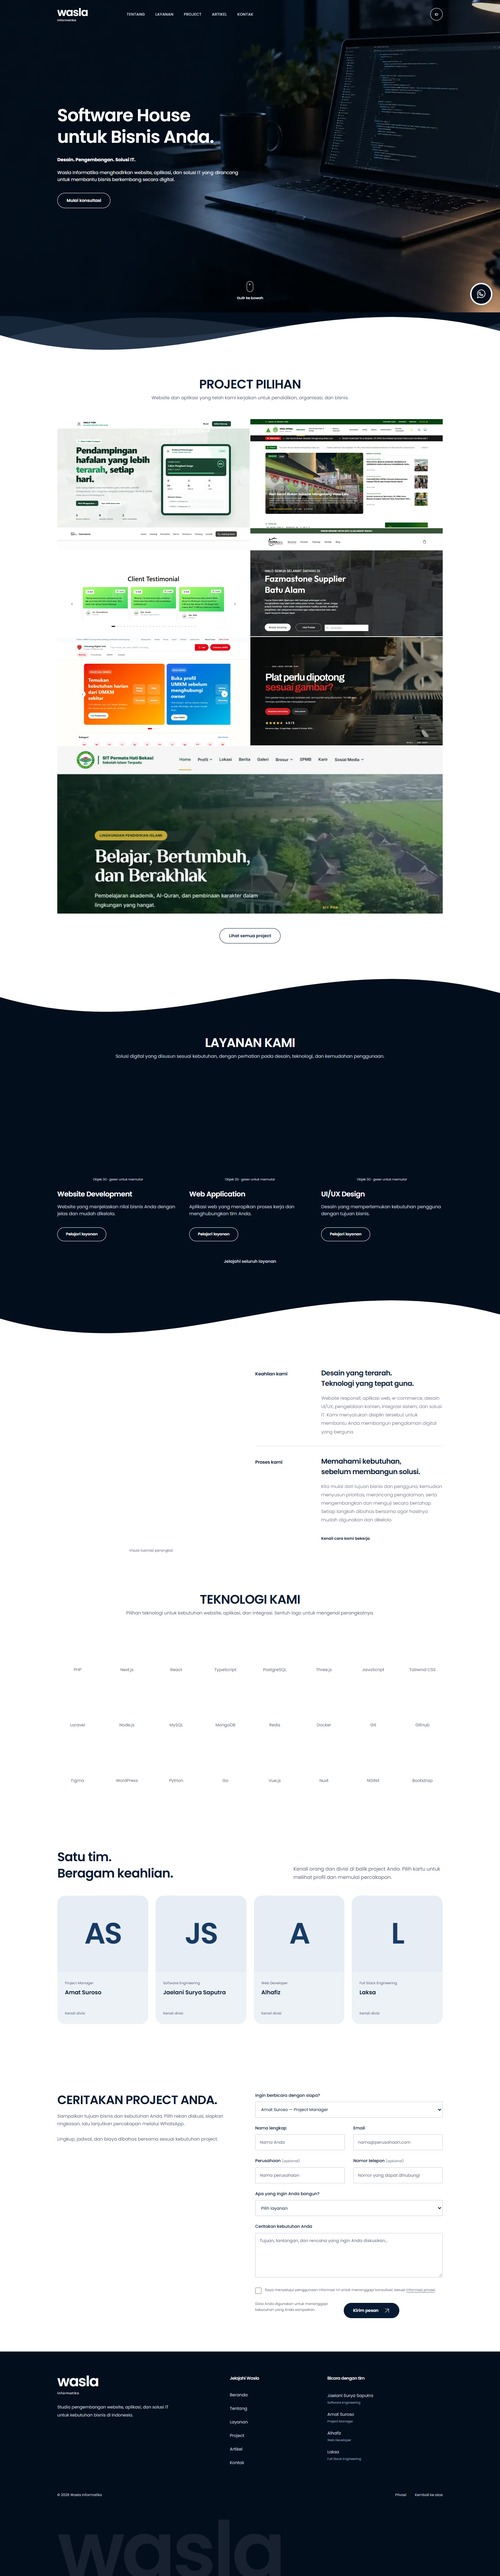
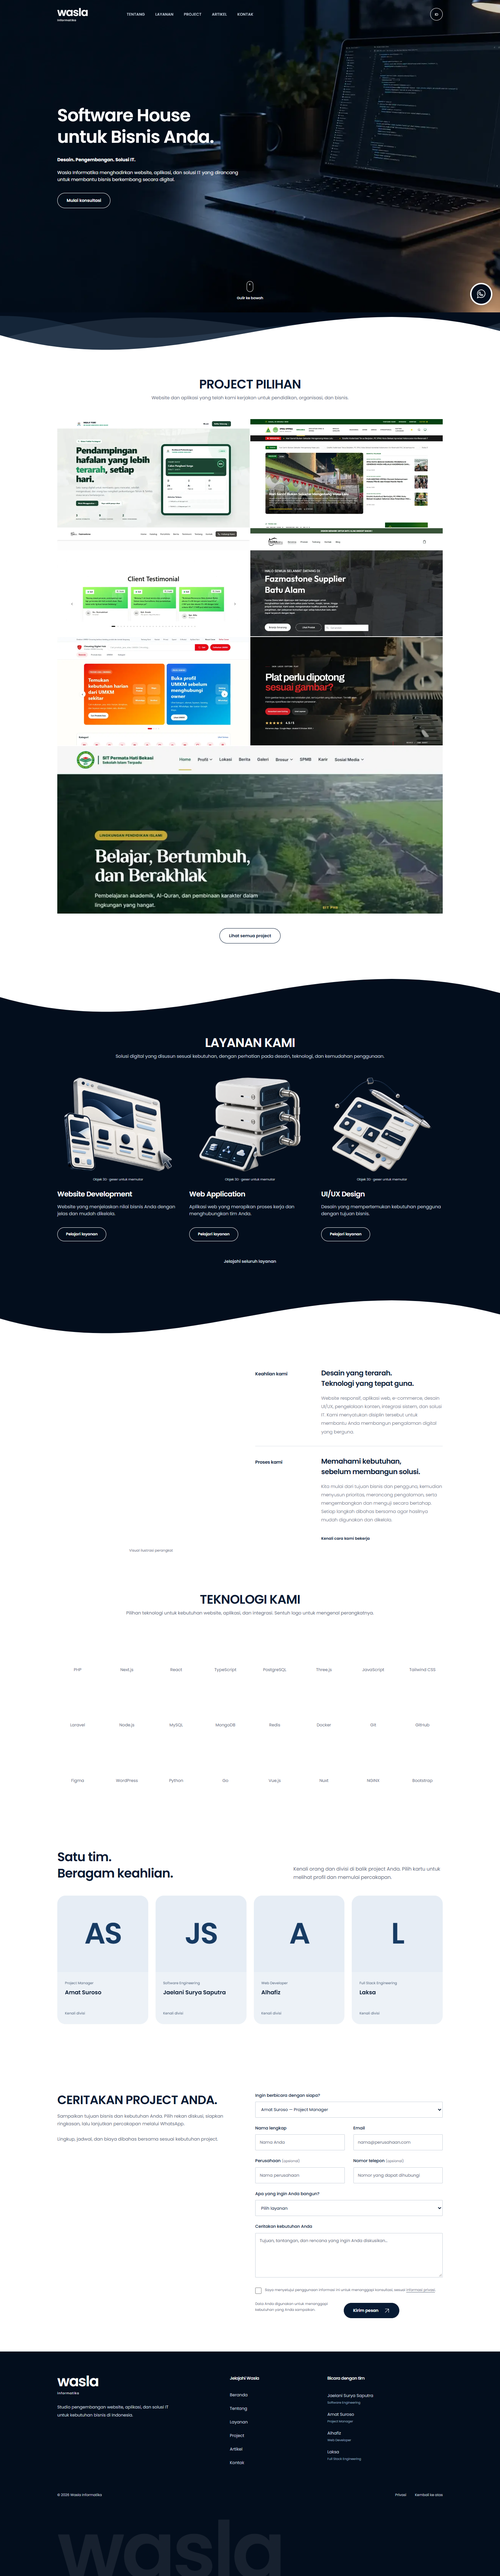
Add verification JSON files and studio documentation validation
- Created domain production verification JSON file for wasla.my.id with deployment details and DNS configuration.
- Added legacy media verification JSON file for wasla.my.id, including status checks for image files.
- Introduced studio documentation validation markdown file summarizing the documentation process and validation results for key files.

Changed region(s): [[0.125, 0.4051, 0.3438, 0.4674], [0.6562, 0.4051, 0.8438, 0.4674], [0.4062, 0.4051, 0.5938, 0.4674]]

diff --git a/docs/production-verification.md b/docs/production-verification.md
@@ -1,8 +1,51 @@
+# Verifikasi produksi Wasla Studio ? 23 Oktober 2026
+
+Website aktif: **https://wasla.my.id**. CMS: **https://wasla.my.id/admin**. Akun administrator lama tetap dapat digunakan.
+
+## Rilis aktif
+
+Deployment `dpl_7pH59fqvSkobj1h4sN7kTJssrZwT`, target production/READY, build 54 detik, telah dipromosikan ke domain publik. Canonical diperiksa sebelum promosi; pengujian lengkap di bawah dijalankan kembali pada domain baru tanpa bypass autentikasi Vercel.
+
+- CMS Wasla Studio menggantikan Payload: dashboard, konten, unggah galeri, pengaturan, pengguna, pesan konsultasi, revisi serta draft/publish.
+- Scheduler privat menyediakan kalender, agenda, penanggung jawab, rentang tanggal dan status. Tidak ada pengingat otomatis yang diklaim.
+- Objek layanan memakai mesh Three.js interaktif, bukan hanya perspektif gambar. Kartu divisi dapat dibalik dengan mouse/keyboard; foto dapat diunggah melalui CMS dan placeholder memakai inisial jujur.
+- Header tanpa ornamen kanan, link project tanpa panah/garis dekoratif, CTA putih, footer navy lurus tanpa sambungan putih, serta layout mobile yang diperbaiki.
+- Database lama tidak dihapus. Migrasi mempertahankan ID, akun, tujuh project nyata, galeri dan media. Pemeriksaan cutover tidak menemukan record lama yang lebih baru sebelum promosi.
+
+## Verifikasi domain dan runtime
+
+| Pemeriksaan | Hasil |
+| --- | --- |
+| DNS dan kepemilikan | Dua nameserver Vercel terbaca dari Cloudflare/Google; Vercel `configured-correctly` |
+| HTTPS | HTTP 200 dengan validasi sertifikat normal |
+| Metadata | Canonical, sitemap dan robots memakai https://wasla.my.id |
+| Halaman publik | Tujuh rute utama HTTP 200 tanpa overflow teramati |
+| Project | Tujuh project nyata terbit, setiap galeri minimal tiga gambar tambahan |
+| Privasi | Jadwal dan pesan konsultasi menolak akses anonim |
+| Akun | Administrator produksi berhasil login ke Studio dengan kredensial lama |
+| Media | Upload, Blob HEAD dan download WebP berhasil |
+| Scheduler | Create dan perubahan status tersimpan di produksi |
+| Dashboard | Ringkasan dan kalender tampil setelah autentikasi |
+| Konsultasi | Form menyimpan pesan privat lalu menyediakan link WhatsApp Amat Suroso yang benar; tidak mengirim pesan eksternal otomatis |
+| Responsif | Homepage/admin lebar 1440 dan 390 tanpa overflow atau page error teramati |
+
+Fixture upload, jadwal dan pesan verifikasi dihapus menggunakan ID persis. Bukti mesin: `.impeccable/review/studio-production-verification.json`, `domain-production-verification.json`, `studio-validation.json` dan `studio-legacy-media-verification.json`. Bukti media lama mencakup dua file representatif, bukan klaim mendekode semua 43 media.
+
+Build, typecheck, empat tes unit dan sembilan tes browser lokal lulus. Lint: nol error, delapan warning yang dicatat. Capture lokal mencakup 24 kombinasi admin dan 36 publik; coverage emulasi tidak mengklaim seluruh perangkat fisik. Review independen [Studio](visual-review-studio.md) memberikan ship. Audit dependensi produksi saat pemeriksaan: nol kerentanan dilaporkan.
+
+Source dirilis dari checkout lokal melalui CLI, tanpa klaim push GitHub. Kredensial tidak ditulis pada laporan publik. Panduan: [CMS](wasla-studio.md), [deployment](deployment.md), [domain](domain-wasla-my-id.md).
+
+---
+
+## Arsip sebelum Wasla Studio
+
+Seluruh bagian berikut adalah riwayat rilis sebelumnya. Pernyataan Payload, ornamen header, raster perspective dan URL vercel.app di arsip tidak menjelaskan rilis aktif.
+
 # Verifikasi produksi — 23 Oktober 2026
 
 Situs publik: **https://waslainformatika.vercel.app**. CMS: **https://waslainformatika.vercel.app/admin**.
 
-## Rilis refinement terbaru
+## Riwayat rilis refinement Payload
 
 Deployment `dpl_2KvdJMGDipWxCqczTtHVoSyzsHio` dibangun dalam 56 detik, target production/READY, diuji pada URL pentahapan dan dipromosikan ke domain publik. Pembaruan: lambang navy dan favicon bulat, mockup navy, footer dekoratif opacity 0.14, perspektif objek layanan mengikuti pointer/scroll dengan fallback statis pada touch/reduced motion, 24 teknologi dengan warna saat hover/fokus, struktur divisi, latar konsultasi putih, proses selebar layar, serta 21 screenshot galeri nyata dari REA.
 
@@ -12,7 +55,7 @@ Delapan tes browser, empat tes unit, build dan lint berhasil. Setelah koreksi fa
 
 Pemeriksaan pentahapan final mengonfirmasi 24 logo, warna fokus, empat divisi, putihnya konsultasi, redupnya footer, favicon navy, seluruh galeri CMS, next/Escape, pointer perspective, reduced motion dan viewport mobile. Bukti domain publik berada di `.impeccable/review/refinement-production-verification.json`. Pengujian CMS/storage/contact lengkap juga berhasil pada deployment refinement sebelum koreksi satu kondisi pointer; koreksi tidak mengubah backend.
 
-Riwayat bootstrap dan rilis pertama di bawah dipertahankan untuk operasi; ID rilis aktif adalah ID refinement di atas. Source tetap diunggah melalui CLI; tidak ada push GitHub yang diklaim.
+Catatan bootstrap dan rilis pertama di bawah adalah riwayat; seluruh ID di bagian riwayat ini sudah digantikan oleh rilis Studio di awal dokumen. Source tetap diunggah melalui CLI; tidak ada push GitHub yang diklaim.
 
 ## Rilis
 

diff --git a/docs/deployment.md b/docs/deployment.md
@@ -1,10 +1,10 @@
 # Deployment dan operasi Wasla Studio
 
-Target aktif: akun jaelanisuryasaputra10@gmail.com, scope `jae-f2e1`, project `waslainformatika` (`prj_y57AtYGyBMYsK9a8b7auDps05t54`). Project lama `wasla-informatika` bukan target rilis. Public URL saat ini https://waslainformatika.vercel.app, CMS `/admin`. Domain tujuan `wasla.my.id` sudah ditambahkan tetapi DNS belum selesai; lihat [status domain](domain-wasla-my-id.md).
+Target aktif: akun jaelanisuryasaputra10@gmail.com, scope `jae-f2e1`, project `waslainformatika` (`prj_y57AtYGyBMYsK9a8b7auDps05t54`). Project lama `wasla-informatika` bukan target rilis. Website aktif https://wasla.my.id, CMS https://wasla.my.id/admin. DNS dan HTTPS sudah terverifikasi; lihat [bukti domain](domain-wasla-my-id.md). Alamat vercel.app tetap tersedia sebagai alias.
 
 ## Rilis custom CMS 23 Oktober 2026
 
-Deployment pentahapan `dpl_H6DSFHPgaHYd5Eq8cwqxUKek7qWH`: https://waslainformatika-nehon1bg1-jae-f2e1.vercel.app. Build Vercel berhasil dalam 54 detik. Ini menggantikan seluruh dependensi dan UI Payload dengan Wasla Studio. Status promosi dan verifikasi alamat utama dicatat pada [production-verification.md](production-verification.md).
+Deployment aktif `dpl_7pH59fqvSkobj1h4sN7kTJssrZwT`: https://waslainformatika-cu98ktauc-jae-f2e1.vercel.app. Build berhasil dalam 54 detik; canonical domain baru diperiksa sebelum promosi. Rilis sudah dipromosikan dan diuji pada https://wasla.my.id. Seluruh dependensi dan UI Payload diganti Wasla Studio. Rilis Studio awal `dpl_H6DSFHPgaHYd5Eq8cwqxUKek7qWH` juga lulus verifikasi; rilis aktif hanya mengganti environment canonical. Bukti rinci dicatat pada [production-verification.md](production-verification.md).
 
 Rilis sebelumnya `dpl_2KvdJMGDipWxCqczTtHVoSyzsHio` memakai Payload dan menjadi riwayat pemulihan. Saat migrasi, snapshot privat dibuat untuk semua koleksi/global, hash akun disalin, dan tabel `studio_*` baru dibuat. ID media/project tetap. Tabel lama tidak dihapus. Pemeriksaan cutover mengambil lagi data lama sebelum promosi dan hanya mengaplikasikan record yang lebih baru; data baru Studio tidak ditimpa.
 
@@ -13,7 +13,7 @@ Rilis sebelumnya `dpl_2KvdJMGDipWxCqczTtHVoSyzsHio` memakai Payload dan menjadi 
 - Node.js 24; Next.js standalone, build `npm run build` memakai Webpack.
 - `DATABASE_URL`: pooled Neon untuk runtime. `DATABASE_URL_UNPOOLED`: koneksi langsung untuk migrasi/operasi administratif.
 - `STUDIO_SECRET`: rahasia acak untuk HMAC pembatas formulir. Lingkungan produksi lama tetap dapat memakai `PAYLOAD_SECRET` sebagai fallback nama variabel; tidak ada runtime CMS Payload. Session Studio berupa token acak yang di-hash, bukan JWT Payload.
-- `NEXT_PUBLIC_SITE_URL`: alamat HTTPS kanonis. Saat DNS wasla.my.id dan HTTPS telah valid, ganti menjadi https://wasla.my.id dan deploy ulang.
+- `NEXT_PUBLIC_SITE_URL`: alamat HTTPS kanonis. Nilai aktif https://wasla.my.id sudah diterapkan pada deployment; canonical, sitemap dan robots telah diperiksa.
 - `BLOB_READ_WRITE_TOKEN`: hanya server. Unggahan baru menggunakan SDK `@vercel/blob`; decoder gambar memvalidasi dan menormalisasi WebP. Batas 4 MB di Vercel. File lama tetap dapat diunduh dari `/api/media/file/...`.
 - `TRUST_PROXY=true` pada Vercel. Jangan menyalin kredensial admin lokal ke produksi.
 

diff --git a/DESIGN.md b/DESIGN.md
@@ -354,4 +354,4 @@ Admin and editor manage content, media, schedules and message follow-up. Only ad
 - **Don't** invent client work, metrics, schedules, automatic reminders or project stacks.
 - **Don't** treat staged runtime verification, local captures or documentation as completed production promotion or DNS.
 
-Historical direction: earlier code-first records described a right emblem, raster perspective, a coordinator tree, a .14 centered footer signature and Payload editing. Those are history, superseded by the 23 October Studio contract. Prior public evidence remains in `docs/refinement-20261023.md` and `docs/visual-review-motion.md`; current operations are in `docs/wasla-studio.md` and `docs/domain-wasla-my-id.md`. Stage READY at https://waslainformatika-nehon1bg1-jae-f2e1.vercel.app passed runtime verification; primary-domain promotion awaits visual review. Domain wasla.my.id is attached, but registrar session expiry prevented nameserver save; current nameservers remain TTM Host. Neither promotion nor DNS completion is claimed here.
+Historical direction: earlier code-first records described a right emblem, raster perspective, a coordinator tree, a .14 centered footer signature and Payload editing. Those are history, superseded by the 23 October Studio contract. Prior public evidence remains in `docs/refinement-20261023.md` and `docs/visual-review-motion.md`; current operations are in `docs/wasla-studio.md` and `docs/domain-wasla-my-id.md`. Production release dpl_7pH59fqvSkobj1h4sN7kTJssrZwT is promoted and verified at https://wasla.my.id. Vercel reports configured-correctly; Cloudflare and Google resolve ns1.vercel-dns.com and ns2.vercel-dns.com. HTTPS, canonical, sitemap, existing administrator login, Blob upload, scheduler, contact persistence and desktop/mobile checks passed on the custom domain. See docs/production-verification.md and docs/domain-wasla-my-id.md for operational evidence.

diff --git a/PRODUCT.md b/PRODUCT.md
@@ -32,6 +32,6 @@ Owner artwork, seven completed website links, four named WhatsApp contacts, real
 Immediate access to the proposition and contact. Honest evidence. Maintainable owner-controlled content. Clear publication state and staff permissions. Private consultation/scheduling data. Keyboard and touch access; motion never blocks use.
 
 ## Open Decisions
-Code-first implementation is approved; no approved visual comp is claimed. Stage READY at https://waslainformatika-nehon1bg1-jae-f2e1.vercel.app passed runtime verification. Promotion to the primary production domain is pending visual review; this record does not certify that promotion. Vercel project remains waslainformatika in scope jae-f2e1. The custom domain wasla.my.id is attached, but DNS is incomplete: registrar session expired before nameserver save and the current nameservers remain TTM Host. `docs/domain-wasla-my-id.md` owns the next steps and HTTPS verification requirement.
+Code-first implementation is approved; no approved visual comp is claimed. Production release dpl_7pH59fqvSkobj1h4sN7kTJssrZwT is promoted and verified at https://wasla.my.id. Vercel reports configured-correctly; Cloudflare and Google resolve ns1.vercel-dns.com and ns2.vercel-dns.com. HTTPS, canonical, sitemap, existing administrator login, Blob upload, scheduler, contact persistence and desktop/mobile checks passed on the custom domain. See docs/production-verification.md and docs/domain-wasla-my-id.md for operational evidence.
 
 Historical context: earlier production/refinement records describe a Payload CMS, raster service perspective, right header emblem, connected coordinator diagram and larger centered footer signature. Those describe earlier releases, superseded by the explicit 23 October Studio contract. Prior project/gallery provenance and public deployment evidence remain historical evidence, not current operational certification.

diff --git a/docs/ui-ux-specification.md b/docs/ui-ux-specification.md
@@ -66,6 +66,6 @@ Desktop seven-column cells are at least 110px; narrow cells 66px show compact st
 
 Current source and workflow were checked against Studio/public styles, frontend layout, workspace editor, service scenes and division cards. Nine browser tests pass; 24 admin and 36 public captures show no observed overflow/errors. Chrome touch emulation does not represent every physical device. Fresh review: [visual-review-studio.md](visual-review-studio.md).
 
-Stage READY at https://waslainformatika-nehon1bg1-jae-f2e1.vercel.app passed runtime verification; primary-domain promotion awaits visual review. Domain wasla.my.id is attached, but registrar session expiry prevented saving nameservers and current nameservers remain TTM Host. [Deployment](deployment.md) and [domain status](domain-wasla-my-id.md) own the next verification steps. Do not claim production promotion, DNS or HTTPS completion from local captures or this spec.
+Production release dpl_7pH59fqvSkobj1h4sN7kTJssrZwT is promoted and verified at https://wasla.my.id. Vercel reports configured-correctly; Cloudflare and Google resolve ns1.vercel-dns.com and ns2.vercel-dns.com. HTTPS, canonical, sitemap, existing administrator login, Blob upload, scheduler, contact persistence and desktop/mobile checks passed on the custom domain. See docs/production-verification.md and docs/domain-wasla-my-id.md for operational evidence.
 
 Historical [motion review](visual-review-motion.md) and [refinement record](refinement-20261023.md) document the earlier Payload, raster-perspective, right-emblem, coordinator-tree and .14 centered-footer release. Those remain historical evidence, superseded by the owner's current contract.

diff --git a/docs/studio-documentation-validation.md b/docs/studio-documentation-validation.md
@@ -1,0 +1,13 @@
+# Studio documentation validation
+
+The documenter wrote all five assigned files before its run ended at a usage limit. The main agent completed the documentation validation inline using the documenter reference. No browser review was substituted: the independent finish reviewer returned ship after rereading the corrected canon.
+
+Checked PRODUCT.md, DESIGN.md, .impeccable/design.json, docs/design-system.md and docs/ui-ux-specification.md against the current Studio/public styles and components. The sidecar parses as schema version 2 and contains rendered component snippets; DESIGN.md has the eight canonical sections and token frontmatter.
+
+Palette: navy/white public surfaces and restrained Studio ground/state colors.
+Type: self-hosted Poppins; public editorial hierarchy and fixed Operate scale.
+Layout: existing public wrapper; responsive Studio sidebar, editor and calendar.
+Interaction: actual Three.js scenes and accessible division flip cards.
+Truth: real content counts, supplied names, manual gallery uploads and private scheduling.
+
+Not canonized: old Payload UI, header medallion, raster-only service depth, coordinator-line diagram, gray CTA and footer seam. Production/domain status is verified separately and does not come from visual captures.

diff --git a/README.md b/README.md
@@ -63,6 +63,6 @@ Pengujian browser menggunakan Chrome yang terpasang. Isi akun pengujian lokal pa
 
 ## Produksi
 
-Project Vercel: `waslainformatika`, scope `jae-f2e1`, akun pemilik yang telah diverifikasi pada sesi ini. Database Neon dan Vercel Blob tetap digunakan. Domain tujuan: `wasla.my.id`; status DNS aktual dicatat di dokumentasi deployment.
+Website: **https://wasla.my.id**. Dashboard: **https://wasla.my.id/admin**. Project Vercel: `waslainformatika`, scope `jae-f2e1`, akun pemilik yang telah diverifikasi. Database Neon dan Vercel Blob tetap digunakan. DNS, HTTPS, canonical dan alur Studio sudah diverifikasi pada domain baru; bukti ada di dokumentasi deployment.
 
 Lihat [panduan CMS](docs/wasla-studio.md), [deployment](docs/deployment.md), dan [riset kartu flip](docs/rea-flip-reference.md). Kredensial, token, dump database dan file `.env` tidak boleh dikomit.
